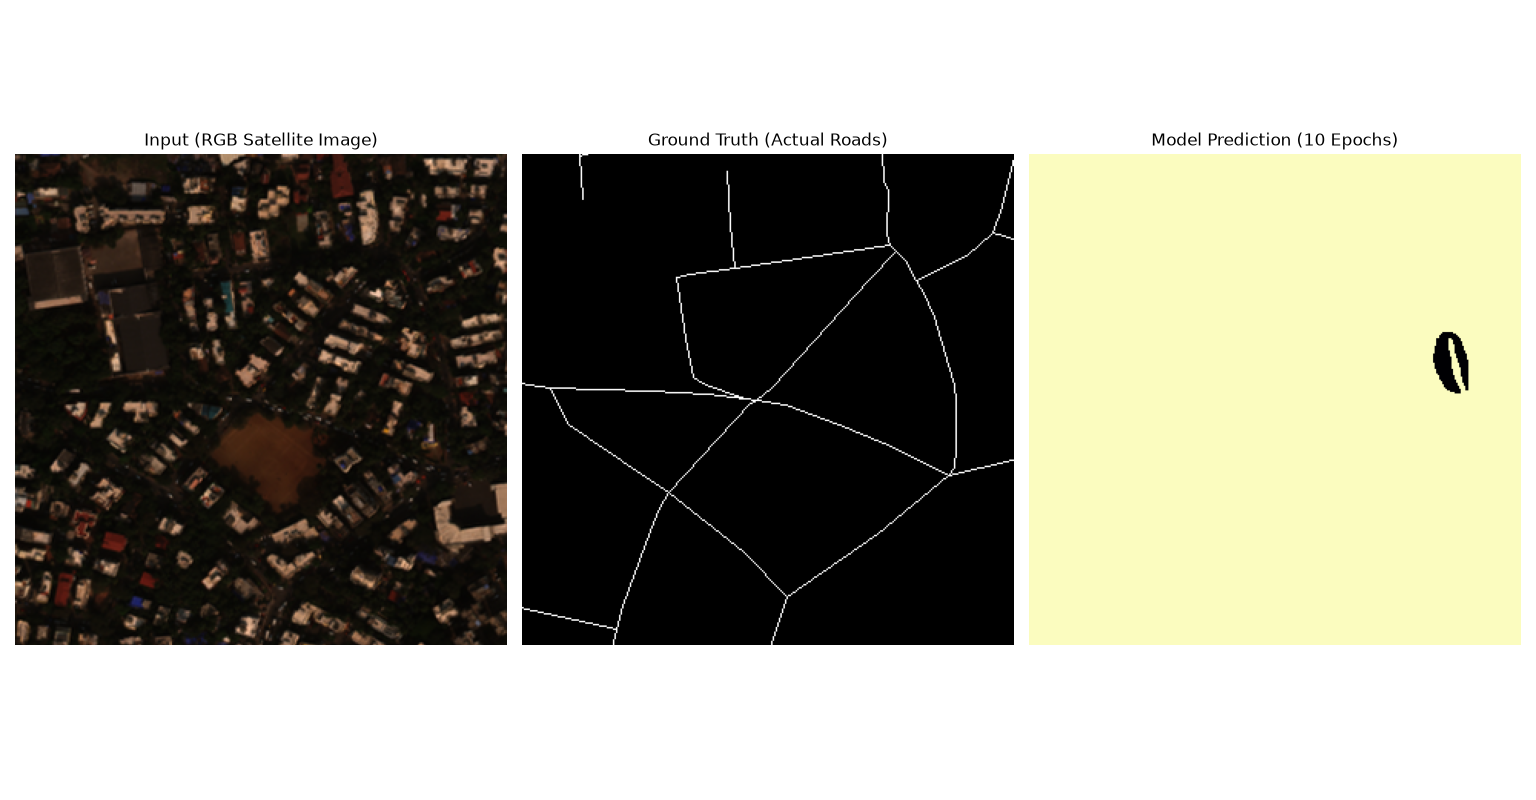
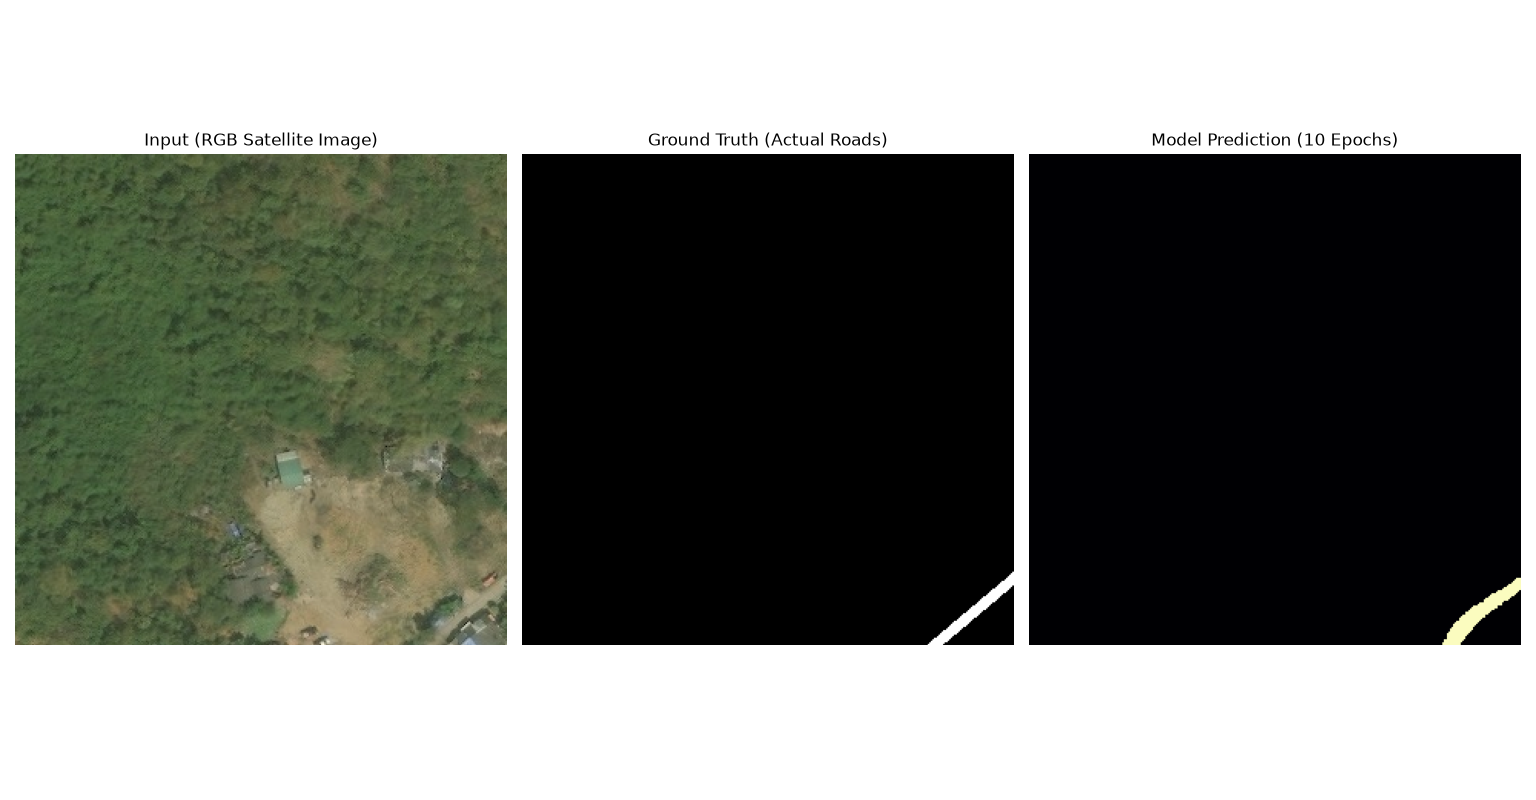
feat: add documentation figures and fix mask tensor shape mismatch in inference plotting

diff --git a/inference.py b/inference.py
@@ -94,7 +94,7 @@ def visualize_prediction(model_path="deepglobe_road_model.pth"):
         
     # Extract tensors for plotting
     prediction = prediction.squeeze().cpu().numpy()
-    mask_true = mask_true.cpu().numpy()
+    mask_true = mask_true.squeeze().cpu().numpy()
     
     # Convert image for matplotlib (Requires [H, W, C] format, normalized 0-1)
     img_display = image_rgb.squeeze().permute(1, 2, 0).cpu().numpy()